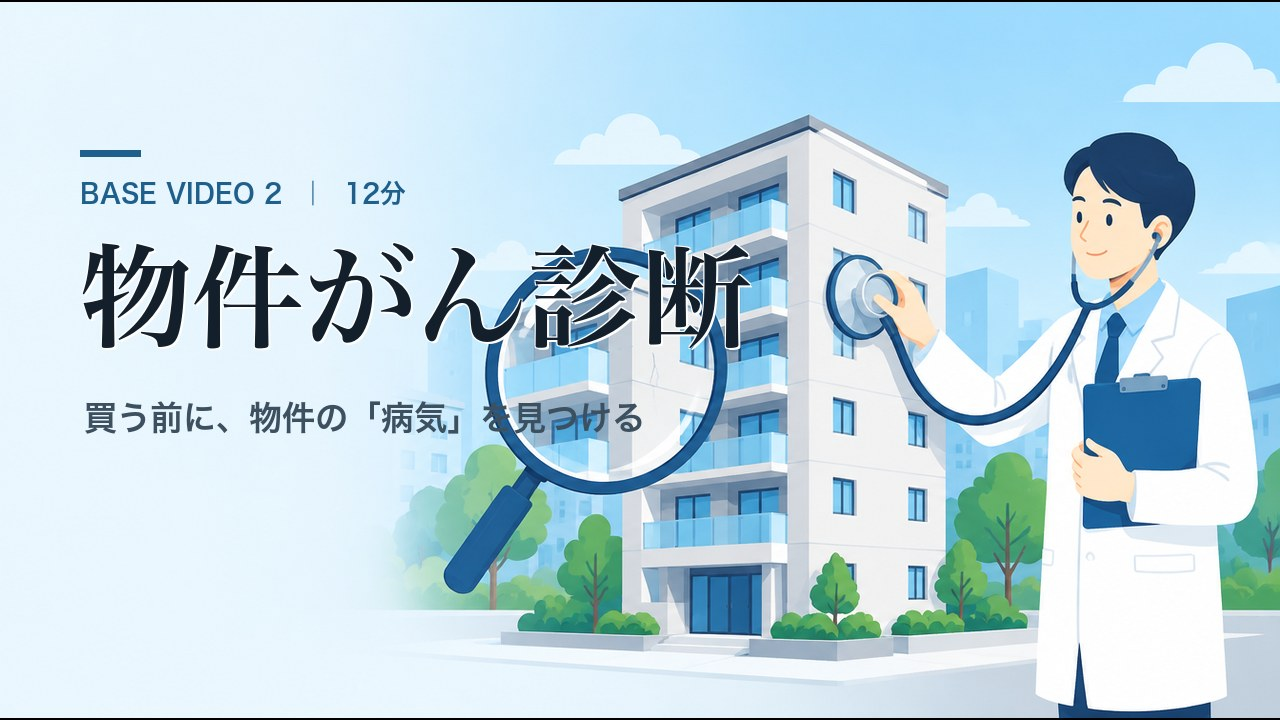
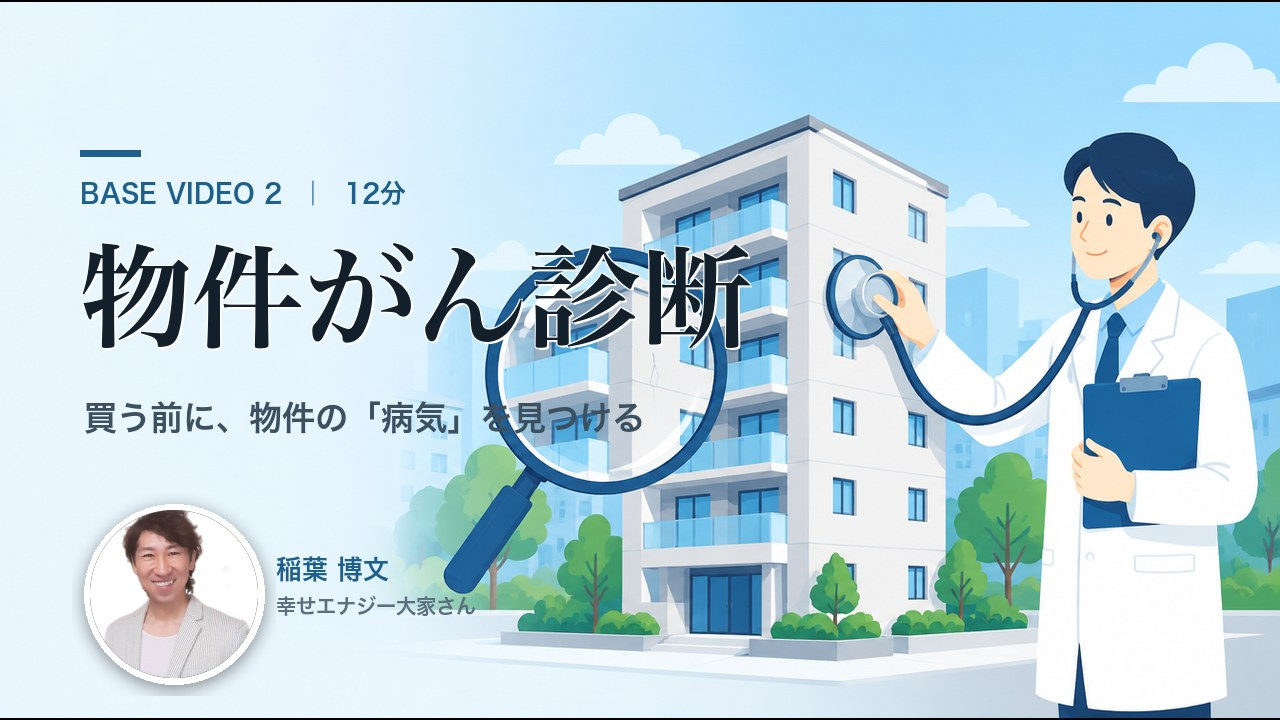
ベース動画サムネに丸抜きの顔写真を追加

Changed region(s): [[0.0625, 0.7028, 0.375, 0.9778]]

diff --git a/base/index.html b/base/index.html
@@ -225,7 +225,7 @@ footer{
     <div class="box" id="box">
     <div class="stage" id="stage">
       <video id="vid" preload="metadata" playsinline webkit-playsinline disablepictureinpicture controlslist="nodownload noplaybackrate noremoteplayback"></video>
-      <img class="poster" id="poster" src="posters/4SpF-rb8NAs.jpg?v=3" alt="">
+      <img class="poster" id="poster" src="posters/4SpF-rb8NAs.jpg?v=4" alt="">
       <button type="button" class="shield" id="shield" aria-label="再生 / 一時停止">
         <span class="big" id="bigicon">▶</span>
         <span class="hint" id="hint"></span>
@@ -265,13 +265,13 @@ footer{
   <ul class="list" id="list">
     <li>
       <button type="button" data-id="4SpF-rb8NAs" data-src="media/produce.mp4" data-slug="produce" data-tag="VIDEO 1" data-name="幸せ不動産プロデュース解説動画" data-note="フィラーカット済み" data-portrait="0" aria-current="true">
-        <span class="thumb"><img src="thumbs/4SpF-rb8NAs.jpg?v=3" alt=""><span class="play"></span></span>
+        <span class="thumb"><img src="thumbs/4SpF-rb8NAs.jpg?v=4" alt=""><span class="play"></span></span>
         <span class="txt"><span class="kind">VIDEO 1</span><span class="ttl">幸せ不動産プロデュース解説動画</span><span class="sub">17分</span></span>
       </button>
     </li>
     <li>
       <button type="button" data-id="HYKlwUpswOw" data-src="media/shindan.mp4" data-slug="shindan" data-tag="VIDEO 2" data-name="物件がん診断" data-note="1.5倍速・フィラーカット済み" data-portrait="0">
-        <span class="thumb"><img src="thumbs/HYKlwUpswOw.jpg?v=3" alt=""><span class="play"></span></span>
+        <span class="thumb"><img src="thumbs/HYKlwUpswOw.jpg?v=4" alt=""><span class="play"></span></span>
         <span class="txt"><span class="kind">VIDEO 2</span><span class="ttl">物件がん診断</span><span class="sub">1.5倍速</span></span>
       </button>
     </li>
@@ -318,7 +318,7 @@ footer{
     hint.textContent = st === 'paused' ? '続きを見る' : (st === 'ended' ? 'もう一度見る' : '');
   }
   function select(btn){
-    poster.src = 'posters/' + btn.getAttribute('data-id') + '.jpg?v=3';
+    poster.src = 'posters/' + btn.getAttribute('data-id') + '.jpg?v=4';
     nowTag.textContent = btn.getAttribute('data-tag');
     nowName.textContent = btn.getAttribute('data-name');
     nowNote.textContent = btn.getAttribute('data-note') || '';
